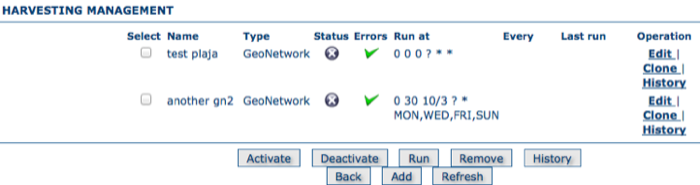
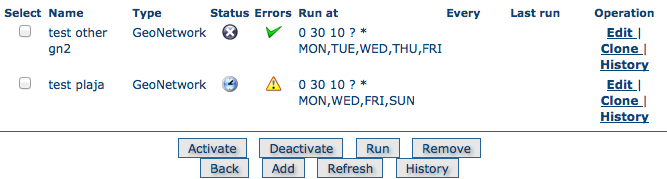
Move History button description to correct place Add better image to show harvesting list

diff --git a/eng/users/source/managing_metadata/harvesting/index.rst b/eng/users/source/managing_metadata/harvesting/index.rst
@@ -196,8 +196,6 @@ are cleared. Here is the meaning of each button:
 #.  *Remove* Remove all currently selected harvesters. A dialogue will ask the
     user to confirm the action.
 
-#.  *History* Show the harvesting history of all selected harvesters. See :ref:`harvest_history` for more details.
-
 The second row contains general purpose buttons. Here is the meaning of each button:
 
 #.  *Back* Simply returns to the main administration page.
@@ -206,6 +204,8 @@ The second row contains general purpose buttons. Here is the meaning of each but
 
 #.  *Refresh* Refreshes the current list of harvesters from the server. This
     can be useful to see if the harvesting list has been altered by someone else or to get the status of any running harvesters.
+
+#.  *History* Show the harvesting history of all harvesters. See :ref:`harvest_history` for more details.
 
 .. _admin_harvesting_status:
 
